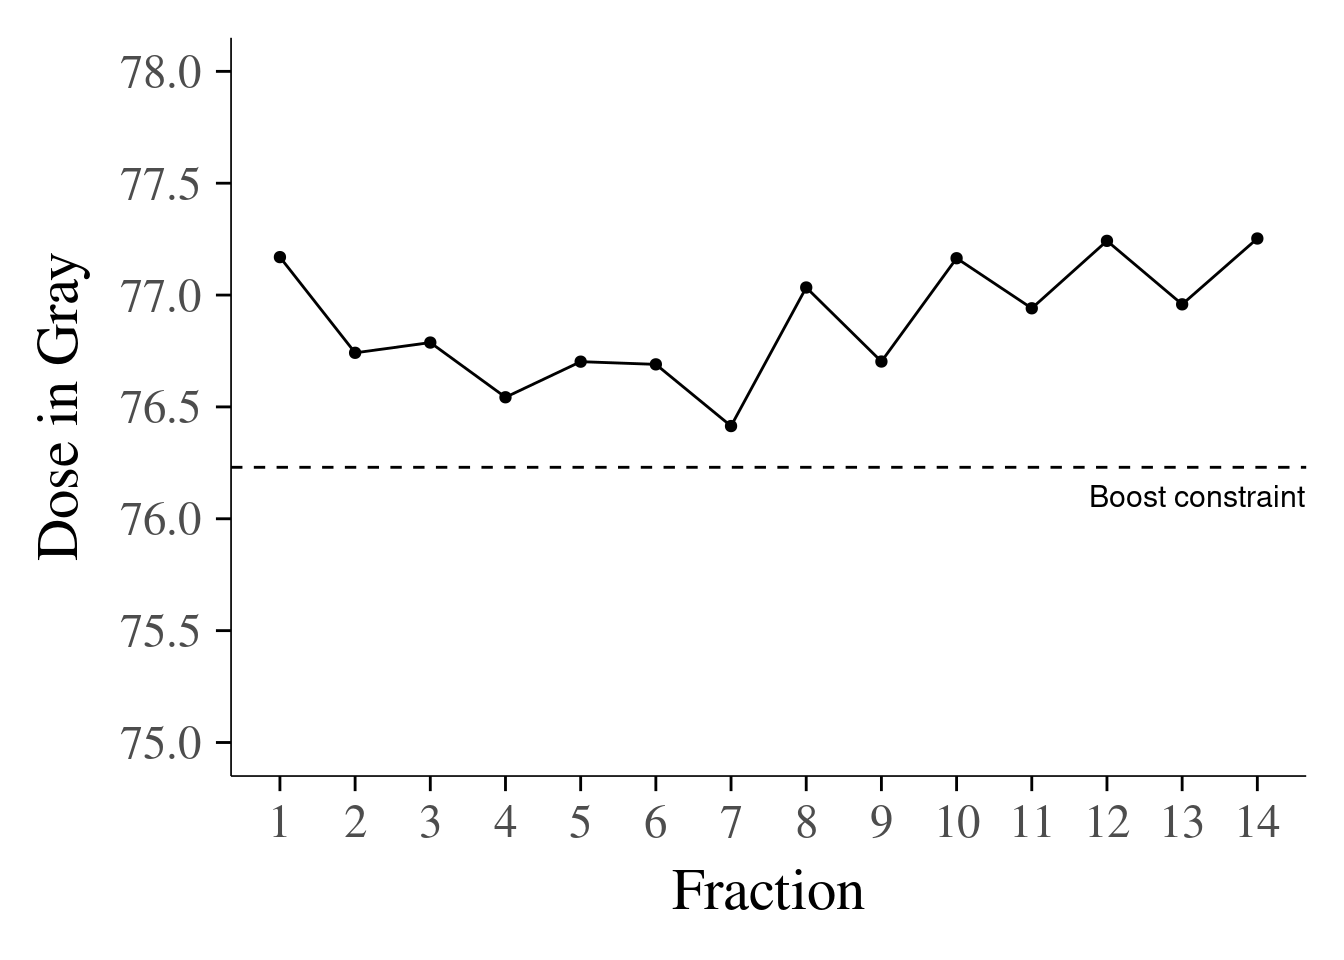
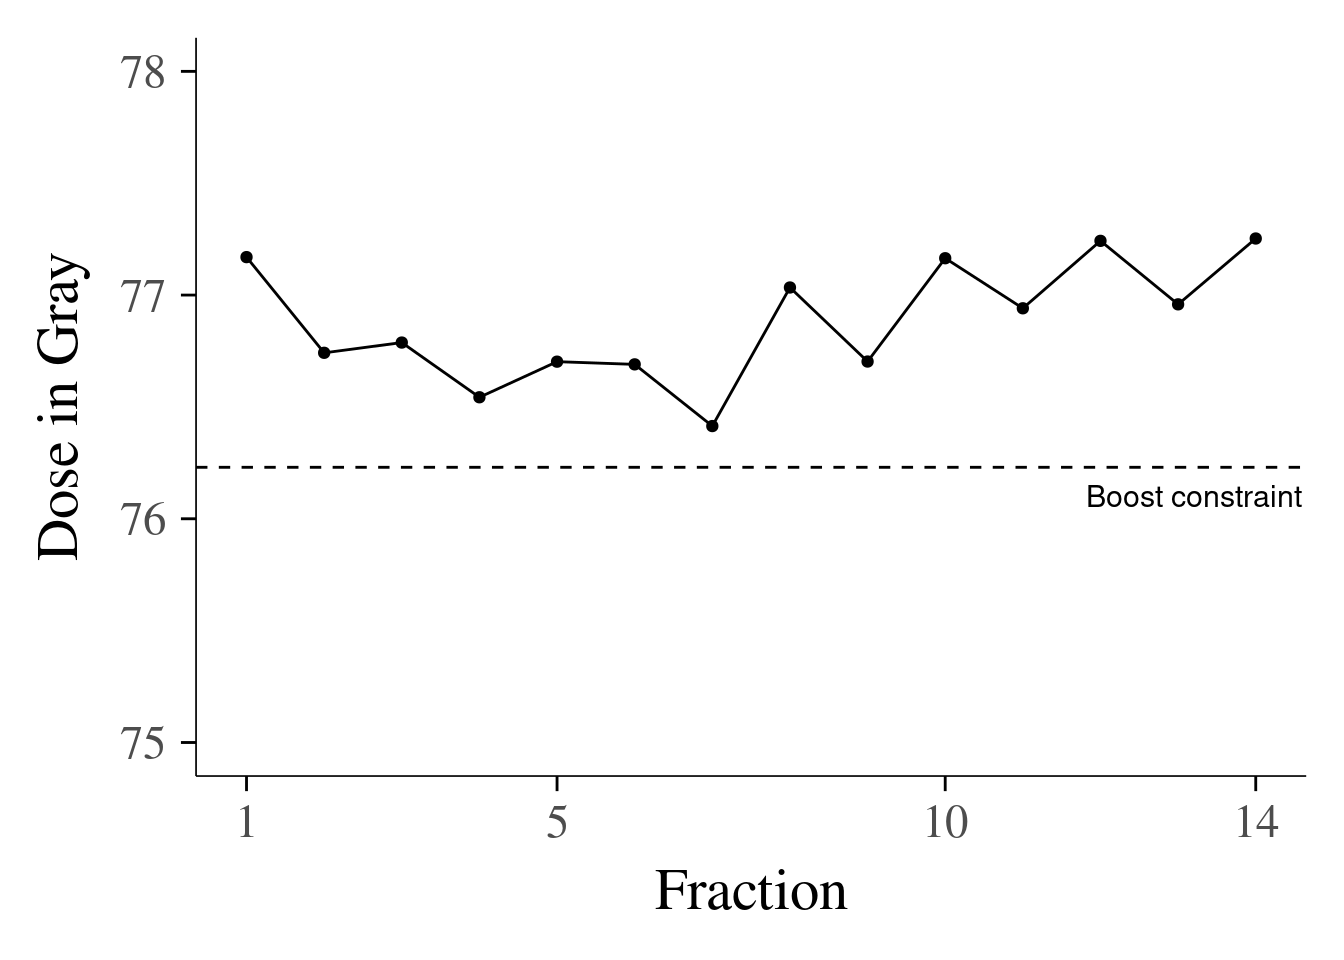
Build site.

diff --git a/docs/ggplot2.html b/docs/ggplot2.html
@@ -425,7 +425,7 @@ div.tocify {
 <div class="tab-content">
 <div id="summary" class="tab-pane fade in active">
 <p>
-<strong>Last updated:</strong> 2020-07-02
+<strong>Last updated:</strong> 2020-07-03
 </p>
 <p>
 <strong>Checks:</strong> <span class="glyphicon glyphicon-ok text-success" aria-hidden="true"></span> 7 <span class="glyphicon glyphicon-exclamation-sign text-danger" aria-hidden="true"></span> 0
@@ -516,16 +516,16 @@ This reproducible <a href="http://rmarkdown.rstudio.com">R Markdown</a> analysis
 <div class="panel panel-default">
 <div class="panel-heading">
 <p class="panel-title">
-<a data-toggle="collapse" data-parent="#workflowr-checks" href="#strongRepositoryversionstrongahrefhttpsgithubcomdssrttnTesttree9b75c3fe025d22b987d443f06a2a115d0f78081atargetblank9b75c3fa"> <span class="glyphicon glyphicon-ok text-success" aria-hidden="true"></span> <strong>Repository version:</strong> <a href="https://github.com/dssrttn/Test/tree/9b75c3fe025d22b987d443f06a2a115d0f78081a" target="_blank">9b75c3f</a> </a>
+<a data-toggle="collapse" data-parent="#workflowr-checks" href="#strongRepositoryversionstrongahrefhttpsgithubcomdssrttnTesttreef3c2cb0d2744b43ab364b70f4263776fa6a46861targetblankf3c2cb0a"> <span class="glyphicon glyphicon-ok text-success" aria-hidden="true"></span> <strong>Repository version:</strong> <a href="https://github.com/dssrttn/Test/tree/f3c2cb0d2744b43ab364b70f4263776fa6a46861" target="_blank">f3c2cb0</a> </a>
 </p>
 </div>
[2 lines of base64/hex data omitted]
 <div class="panel-body">
 <p>
 Great! You are using Git for version control. Tracking code development and connecting the code version to the results is critical for reproducibility.
 </p>
 <p>
-The results in this page were generated with repository version <a href="https://github.com/dssrttn/Test/tree/9b75c3fe025d22b987d443f06a2a115d0f78081a" target="_blank">9b75c3f</a>. See the <em>Past versions</em> tab to see a history of the changes made to the R Markdown and HTML files.
+The results in this page were generated with repository version <a href="https://github.com/dssrttn/Test/tree/f3c2cb0d2744b43ab364b70f4263776fa6a46861" target="_blank">f3c2cb0</a>. See the <em>Past versions</em> tab to see a history of the changes made to the R Markdown and HTML files.
 </p>
 <p>
 Note that you need to be careful to ensure that all relevant files for the analysis have been committed to Git prior to generating the results (you can use <code>wflow_publish</code> or <code>wflow_git_commit</code>). workflowr only checks the R Markdown file, but you know if there are other scripts or data files that it depends on. Below is the status of the Git repository when the results were generated:
@@ -588,6 +588,40 @@ Message
 </tr>
 </thead>
 <tbody>
+<tr>
+<td>
+Rmd
+</td>
+<td>
+<a href="https://github.com/dssrttn/Test/blob/f3c2cb0d2744b43ab364b70f4263776fa6a46861/analysis/ggplot2.Rmd" target="_blank">f3c2cb0</a>
+</td>
+<td>
+Mein Vorname
+</td>
+<td>
+2020-07-03
+</td>
+<td>
+x- und y-axis thinned
+</td>
+</tr>
+<tr>
+<td>
+html
+</td>
+<td>
+<a href="https://rawcdn.githack.com/dssrttn/Test/a80fcf5d3922730d700967ca424d36f61f71ad62/docs/ggplot2.html" target="_blank">a80fcf5</a>
+</td>
+<td>
+Mein Vorname
+</td>
+<td>
+2020-07-02
+</td>
+<td>
+Build site.
+</td>
+</tr>
 <tr>
 <td>
 Rmd
@@ -1086,17 +1120,10 @@ ggplot(data, aes(x, y)) +
   geom_point() +
   geom_line() +
  expand_limits(y = c(75.0, 78)) +
-  scale_y_continuous(breaks = seq(75.0,78.0,0.5)) +
-#scale_y_continuous(label_number(accuracy = 0.1), breaks = seq(75.0,78.0,0.25), labels = c(75.0, &quot;&quot;, 75.5, &quot;&quot;, 76.0, &quot;&quot;, 76.5, &quot;&quot;, 77.0, &quot;&quot; ,77.5, &quot;&quot; ,
- # 78.0)) + # Labels und Ticks ungleich, jedoch jedes 2. Label soll nicht angezeigt werden
-#label_number(accuracy = 0.1),
-    # , labels = c(75.0, 75.5, 76.0, 76.5, 77.0, 77.5, 78.0)) +
-  #scale_y_continuous(expand = expand_scale(mult = c(0, .1)), b
-  # scale_x_discrete(limits=NULL, breaks=NULL, 0.5) + https://stackoverflow.com/questions/55033695/x-axis-labels-illegible-display-every-other-label-on-x-axis-ggplot2
-# scale_y_discrete(breaks = c(T,F)) +
+  scale_y_continuous(breaks = seq(75.0,78.0,1)) +
+scale_x_continuous(breaks = c(1, 5, 10, 14)) +  # für jedes x ein tick
 
-  scale_x_continuous(breaks = 0:14) +  # für jedes x ein tick
-geom_abline(intercept = 76.23, slope = 0, lty=2) + # horizontale Linie ohne Steigung, da slope = 0 
+  geom_abline(intercept = 76.23, slope = 0, lty=2) + # horizontale Linie ohne Steigung, da slope = 0 
    annotate(&quot;text&quot;, x = 13.2, y = 76.1, cex =rel(4), label = &quot;Boost constraint&quot;) +
   theme_classic() +
   theme(
@@ -1227,9 +1254,10 @@ ggplot(data, aes(x, y)) +
   geom_point() +
   geom_line() +
   expand_limits(y = c(75.0, 78)) +
-scale_y_continuous(breaks = seq(75.0,78.0,0.5)) +
-scale_x_continuous(breaks = 0:14) +  # für jedes x ein tick
-geom_abline(intercept = 76.23, slope = 0, lty=2) + # horizontale Linie ohne Steigung, da slope = 0 
+scale_y_continuous(breaks = seq(75.0,78.0,1)) +
+scale_x_continuous(breaks = c(1, 5, 10, 14)) +  # für jedes x ein tick
+
+  geom_abline(intercept = 76.23, slope = 0, lty=2) + # horizontale Linie ohne Steigung, da slope = 0 
    annotate(&quot;text&quot;, x = 13.2, y = 76.1, cex =rel(4), label = &quot;Boost constraint&quot;) +
   theme_classic() +
   theme(
@@ -1356,7 +1384,7 @@ Mein Vorname
  collate  en_US.UTF-8                 
  ctype    en_US.UTF-8                 
  tz       Europe/Berlin               
- date     2020-07-02                  
+ date     2020-07-03                  
 
 ─ Packages ───────────────────────────────────────────────────────────────────
  package     * version date       lib source        
